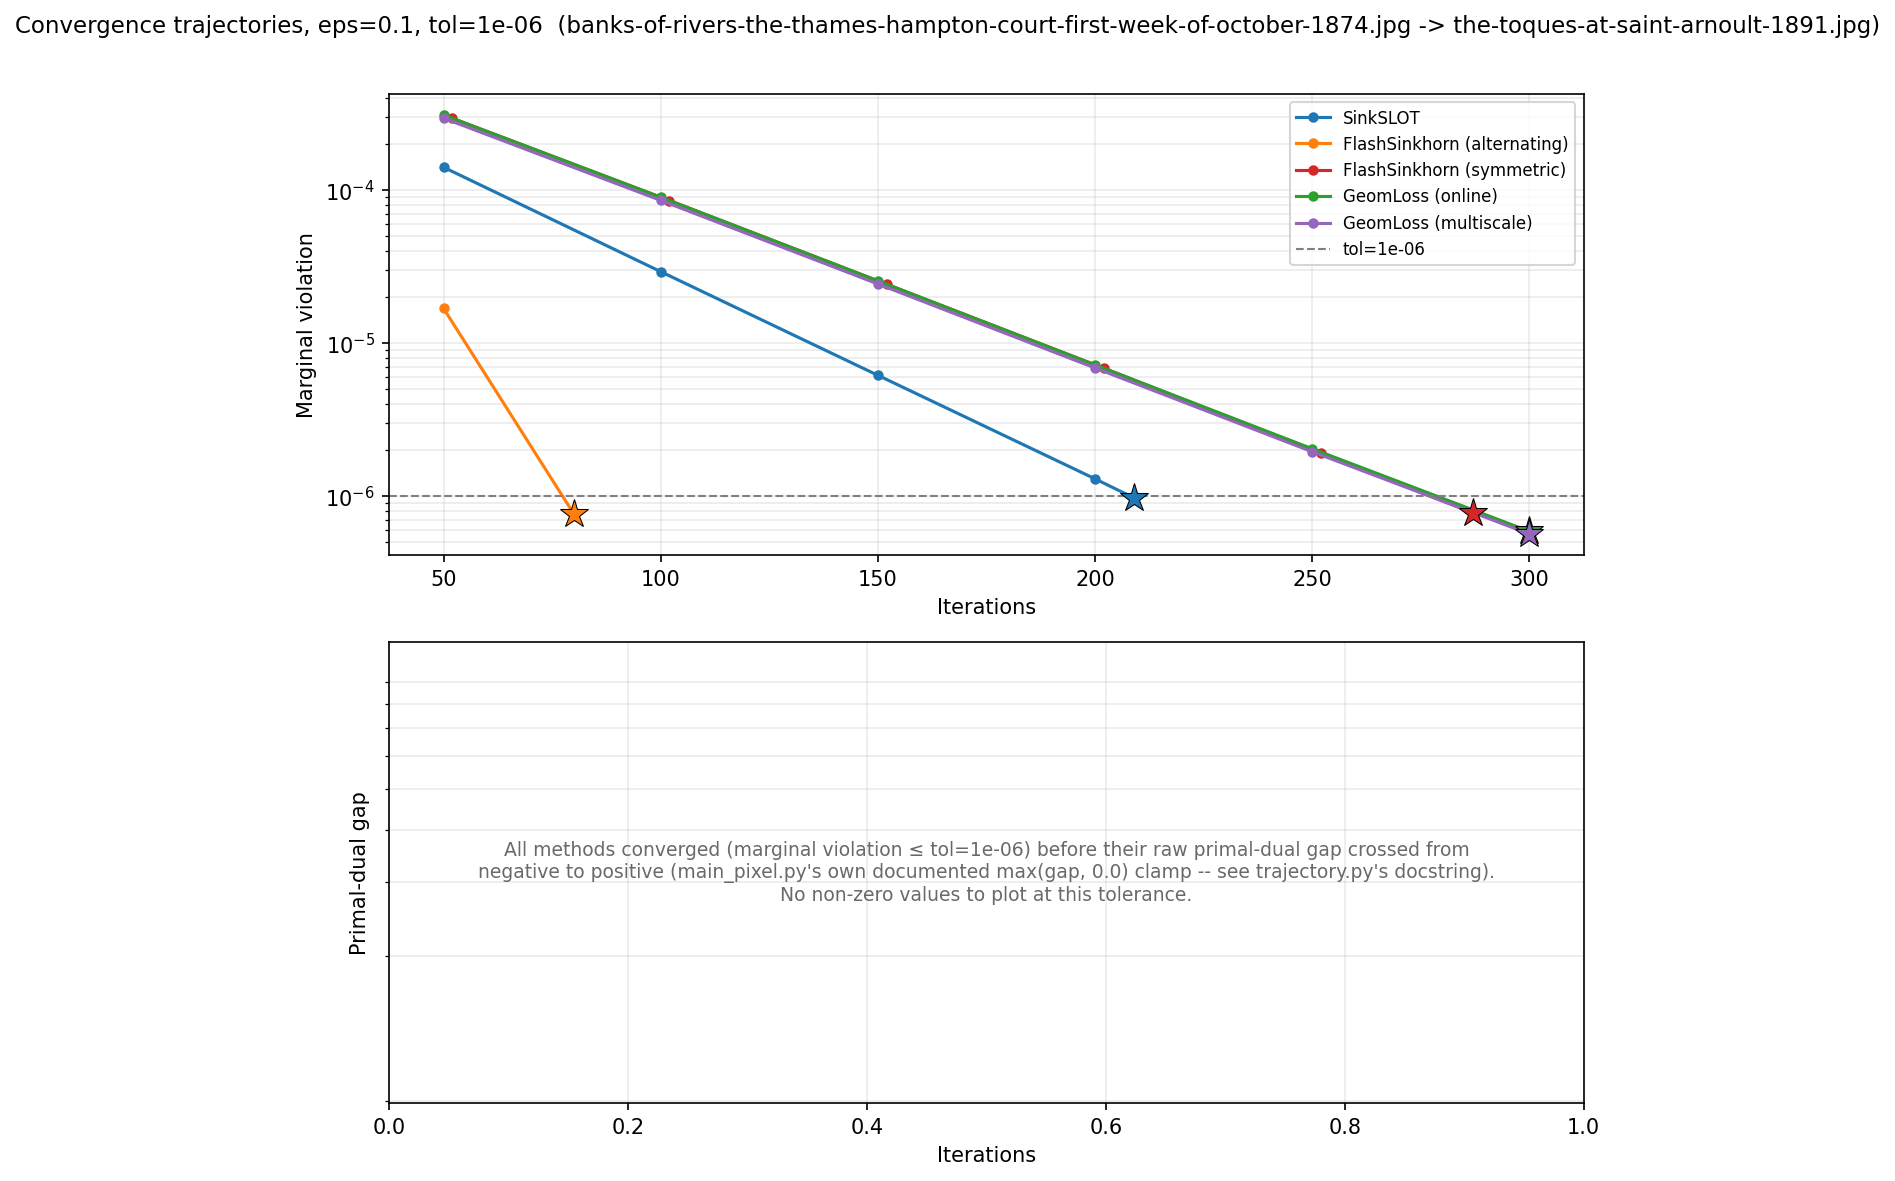
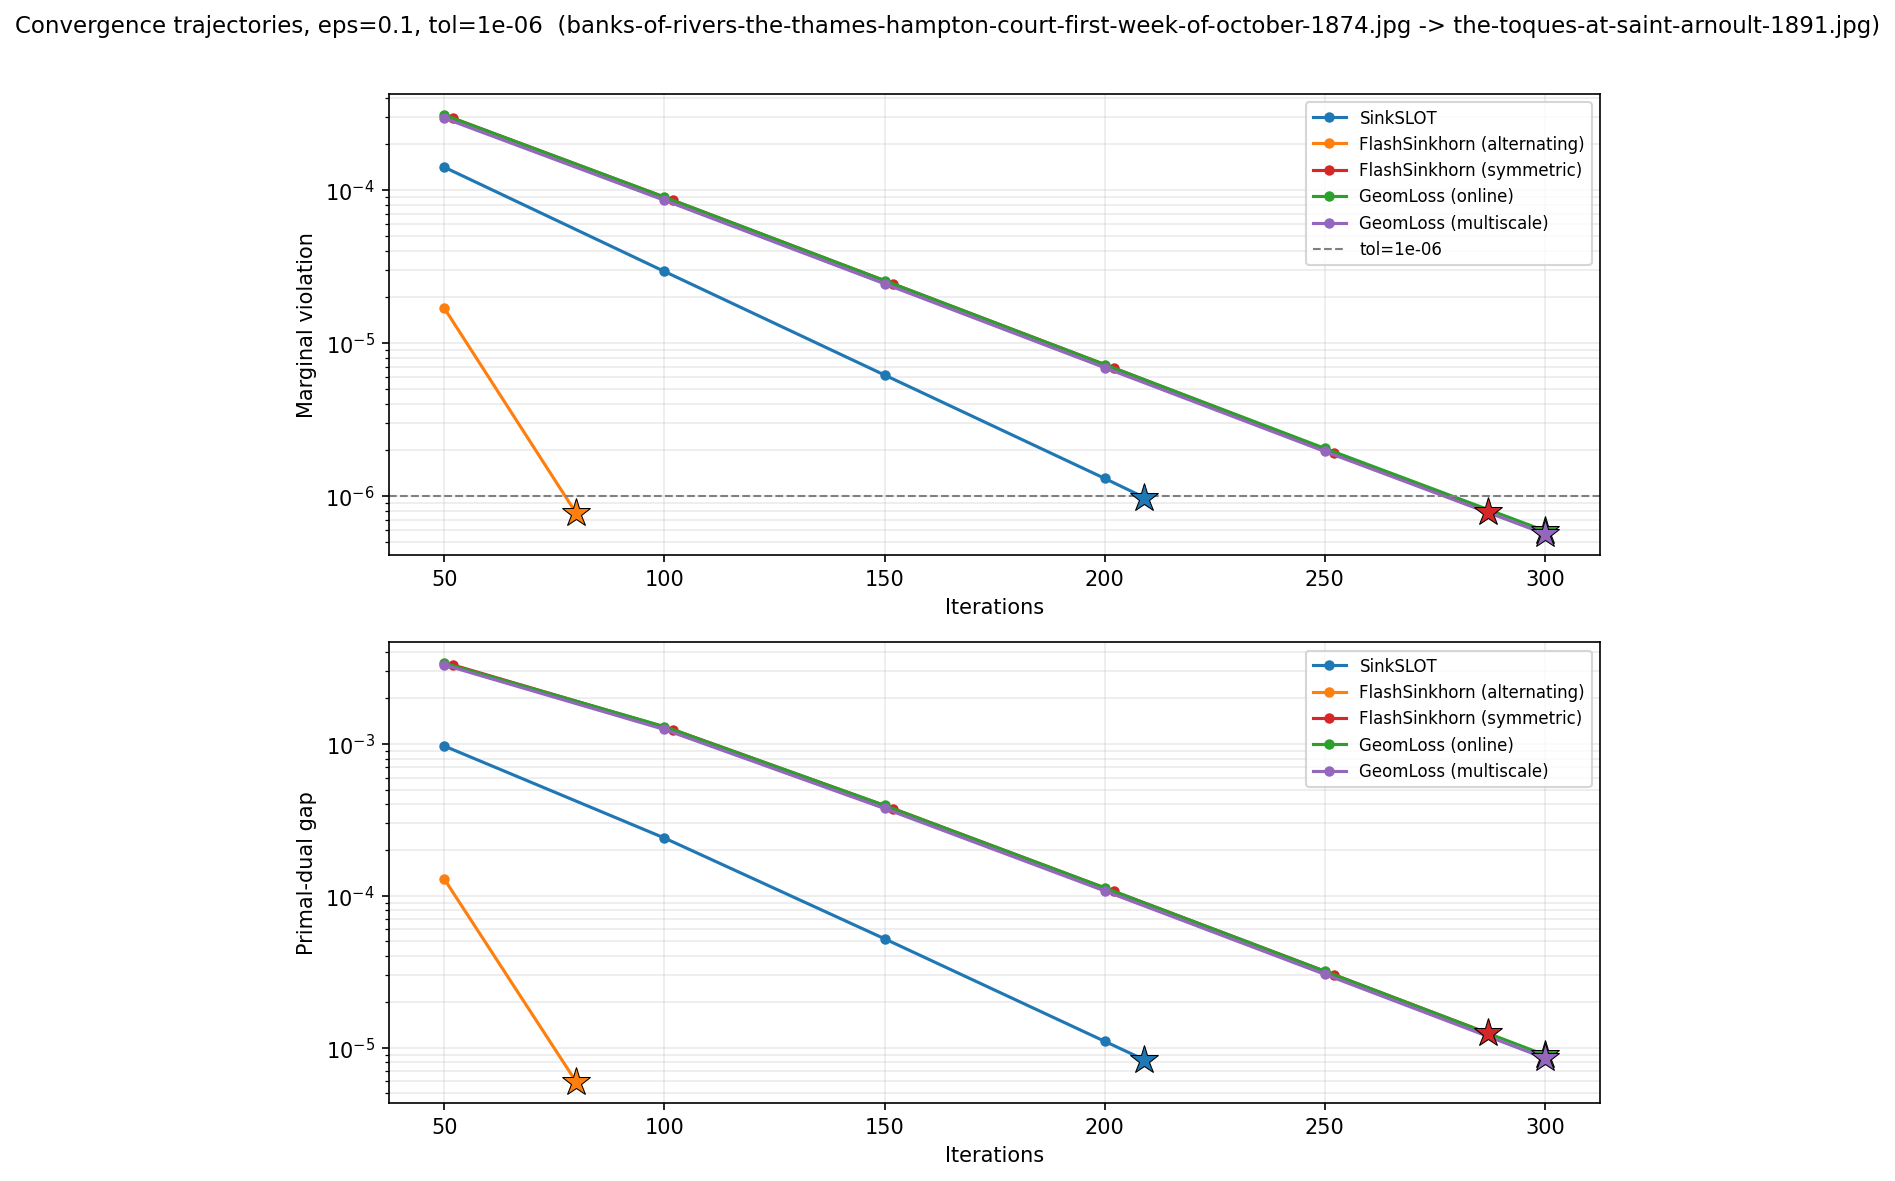
color_transfer: report primal-dual gap as abs(primal - dual), not clamped
_kl_gap_sparse/_kl_gap_dense_chunked previously returned
max(primal - dual, 0.0): the feasible-plan-reconstruction approximation
makes the raw value genuinely negative far from convergence (documented,
verified transient, not a bug), and clamping to 0.0 in that regime
silently reported "perfectly converged" for checkpoints nowhere close --
indistinguishable on a plot or in a stopping check from genuine
convergence. This is why trajectory.py's primal-dual gap panel was empty
at tol=1e-6: every checkpoint's raw gap was still negative when marginal
violation triggered convergence, so every value got floored to exactly
0.0 and dropped by the plot's own zero-filter.

Switched to abs(primal - dual): keeps the true magnitude of the duality
violation on both sides of the zero-crossing, at the cost of the sign
(not needed here -- this value is only ever used as a convergence
indicator, small vs not small, never to bound the true objective from one
side). Regenerated example results/plots: the primal-dual gap panel is
now fully populated with real, monotonically decreasing curves for all
five methods instead of an empty annotated panel.

Claude-Session: https://claude.ai/code/session_01VzR4NddMD7N31DiyqfxK8w

diff --git a/color_transfer/plot_trajectory.py b/color_transfer/plot_trajectory.py
@@ -33,16 +33,18 @@ the iterations figure only (a fixed value on the y-axis, so it renders the
 same regardless of x-axis choice -- drawn once to avoid a redundant legend
 entry on both figures).
 
-Log-scale y-axis in every panel: checkpoints where a metric reads exactly
-0.0 (trajectory.py's own documented max(gap, 0.0) clamp) are dropped from
-that specific line before plotting, per trajectory.py's own module
-docstring -- not treated as real near-zero values. Each trace's final
+Log-scale y-axis in every panel. primal_dual_gap is abs(primal - dual)
+(see main_pixel.py's _kl_gap_sparse/_kl_gap_dense_chunked and trajectory.py's
+own docstring), not clamped to >= 0, so it is virtually always plottable --
+the exactly-0.0/None skip below is a defensive no-op for the near-impossible
+float coincidence, kept in case a metric is ever missing rather than tiny,
+not because zeros are expected in normal operation. Each trace's final
 (converged) point is marked with a star, since that is the point the
-method actually stopped at, not just the largest value plotted. If every
-trace is empty for a metric (as currently happens for primal_dual_gap at
-tol=1e-6 -- all four methods converge on marginal violation before their
-raw gap turns positive), the panel is kept and annotated explaining why,
-rather than silently left blank.
+method actually stopped at (by marginal violation, in every case -- see
+trajectory.py), not just the largest value plotted. The empty-panel
+fallback below is a defensive path for the case where a metric genuinely
+has nothing to plot (e.g. missing trajectory files), not something normal
+runs are expected to hit anymore.
 """
 
 import argparse
@@ -121,19 +123,14 @@ def _render(traces, x_key, x_label, output_path):
         if any_plotted:
             ax.legend(fontsize=8, loc="upper right")
         else:
-            # every trace's value at every checkpoint was exactly 0.0 (the
-            # max(gap, 0.0) clamp firing everywhere) -- explain why the
-            # panel is blank rather than leaving an unexplained empty log
-            # axis, per the user's explicit choice to keep both panels.
-            tol = traces[0][2].get("tol")
+            # Defensive fallback: every trace was empty for this metric (e.g.
+            # missing trajectory files, or every checkpoint's value was None).
+            # Not expected to fire for primal_dual_gap anymore now that it's
+            # abs(primal - dual) rather than a >= 0 clamp -- see module
+            # docstring -- but kept so a genuinely empty panel is explained
+            # rather than left as an unlabeled blank log axis.
             ax.set_yticks([])
-            ax.text(0.5, 0.5,
-                    f"All methods converged (marginal violation ≤ tol"
-                    + (f"={tol:g}" if tol is not None else "")
-                    + f") before their raw {metric_title.lower()} crossed from\n"
-                    "negative to positive (main_pixel.py's own documented "
-                    "max(gap, 0.0) clamp -- see trajectory.py's docstring).\n"
-                    "No non-zero values to plot at this tolerance.",
+            ax.text(0.5, 0.5, f"No {metric_title.lower()} data to plot.",
                     ha="center", va="center", transform=ax.transAxes,
                     fontsize=9, color="dimgrey", wrap=True)
 

diff --git a/color_transfer/main_pixel.py b/color_transfer/main_pixel.py
@@ -443,9 +443,18 @@ def flashsinkhorn_run(sc, tc, sw, tw, eps, n_iters, stop, block_n=2048):
 def _kl_gap_sparse(phi, psi, rows, cols, S, cost, a, b, eps):
     """Fenchel primal-dual gap for SinkSLOT's <C,P> + eps*KL(P||P^SOT)
     objective, evaluated at (phi, psi), restricted to the sparse support
-    (rows, cols, S). Returns a float clamped to >= 0 (the feasible-plan
-    reconstruction is an approximate correction, so the raw value can come
-    out very slightly negative near convergence).
+    (rows, cols, S). Returns abs(primal - dual), not max(primal - dual, 0.0):
+    the feasible-plan reconstruction is an approximate correction, so the
+    raw value can come out genuinely negative far from convergence (a known,
+    verified transient, not a bug -- see trajectory.py's own docstring for
+    the measured trajectory), and clamping to 0.0 in that regime silently
+    reports "perfectly converged" for checkpoints that are nowhere close,
+    indistinguishable from genuine convergence on a plot or in a stopping
+    check. abs() keeps the true magnitude of the duality violation in both
+    directions, at the cost of losing the sign (whether the estimate is
+    optimistic or pessimistic) -- not needed here, since this value is only
+    ever used as a convergence indicator (small vs not small), not to bound
+    the true objective from one side.
 
     `phi`/`psi` are SinkSLOT's own dimensionless log-potentials (already in
     "f/eps" units -- see `vals` below, which matches
@@ -476,7 +485,7 @@ def _kl_gap_sparse(phi, psi, rows, cols, S, cost, a, b, eps):
     entropy = (P_feas[positive] * (P_feas[positive].clamp_min(tiny).log() - log_S[positive] - 1.0)).sum()
     primal = float((cost * P_feas).sum() + eps * entropy)
 
-    return max(primal - dual, 0.0)
+    return abs(primal - dual)
 
 
 def _kl_gap_dense_chunked(f, g, sc, tc, sw, tw, eps, block_n=2048):
@@ -485,7 +494,9 @@ def _kl_gap_dense_chunked(f, g, sc, tc, sw, tw, eps, block_n=2048):
     dense (n,m) tensor: the implied plan is recomputed from (f,g) in three
     row-blocked passes (row sums; column sums of the row-rescaled
     intermediate; final feasible plan + primal objective), mirroring
-    flashsinkhorn_run's own chunked cost computation."""
+    flashsinkhorn_run's own chunked cost computation. Returns
+    abs(primal - dual), not max(primal - dual, 0.0) -- see _kl_gap_sparse's
+    own docstring for why."""
     n, m = sc.shape[0], tc.shape[0]
     tiny = torch.finfo(sc.dtype).tiny
     log_a = sw.clamp_min(tiny).log()
@@ -530,7 +541,7 @@ def _kl_gap_dense_chunked(f, g, sc, tc, sw, tw, eps, block_n=2048):
         del C_blk, P_blk, step1, P_feas
     primal = primal_lin + eps * entropy
 
-    return max(primal - dual, 0.0)
+    return abs(primal - dual)
 
 
 def sinkslot_run_primal_dual(sc, tc, sw, tw, eps, L, seed, max_iter, tol, check_every):

diff --git a/color_transfer/trajectory.py b/color_transfer/trajectory.py
@@ -81,18 +81,21 @@ including for SinkSLOT.
 
 Requires a CUDA GPU, same as main_pixel.py.
 
-primal_dual_gap can read exactly 0.0 for many early checkpoints -- this is
-main_pixel.py's _kl_gap_sparse/_kl_gap_dense_chunked own documented
-max(gap, 0.0) clamp, not a bug: verified directly (raw, unclamped
-primal-dual value checked across n_iters=10..3000 on the default pair)
-that the true value is genuinely negative early on -- a known property of
-the feasible-plan-reconstruction approximation these functions use, whose
-error shrinks smoothly and monotonically alongside marginal violation and
-crosses over to genuinely positive once well-converged, not a stuck or
-unbounded artifact. Practical consequence: since a log-scale y-axis can't
-plot a literal 0.0, any plotting code consuming this script's output
-should skip checkpoints where primal_dual_gap == 0.0 for that curve
-specifically, rather than treat them as real (tiny) values.
+primal_dual_gap is abs(primal - dual), not max(primal - dual, 0.0):
+_kl_gap_sparse/_kl_gap_dense_chunked's feasible-plan-reconstruction
+approximation makes the raw (primal - dual) value genuinely negative far
+from convergence (verified directly: raw, unclamped value checked across
+n_iters=10..3000 on the default pair, shrinking smoothly and monotonically
+alongside marginal violation and crossing over to genuinely positive once
+well-converged, not a stuck or unbounded artifact) -- clamping that to 0.0
+would silently report "perfectly converged" for a checkpoint nowhere close,
+indistinguishable on a plot or in a stopping check from genuine convergence
+(this is why the clamped version's log-scale plot used to be empty for
+long stretches: this script found nothing but a wall of 0.0s to plot, not
+because the metric was uninformative). abs() keeps the true magnitude of
+the duality violation on both sides of the crossover, at the cost of the
+sign -- not needed here, since this value is only ever read as a
+convergence indicator (small vs not small).
 
 Why this is a separate script from main_pixel.py: main_pixel.py records one
 number per (pair, eps) -- whichever quantity --stop_mode selects, at
